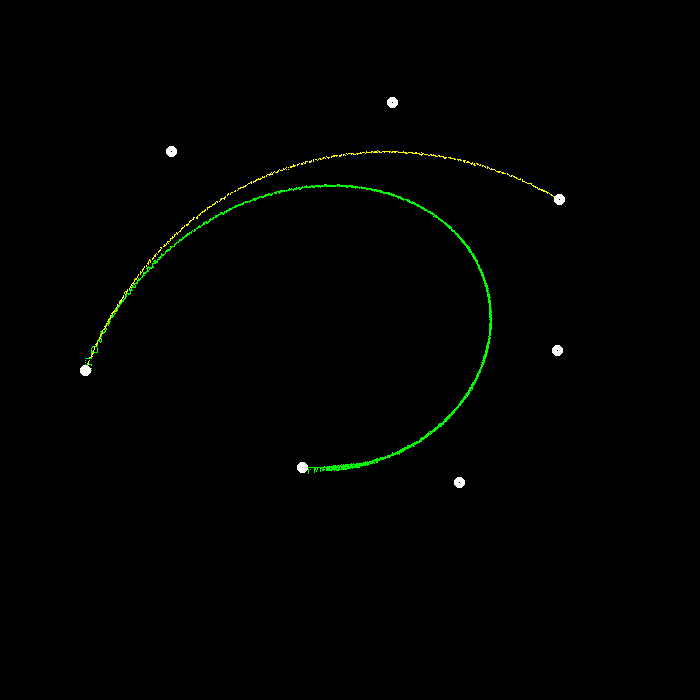
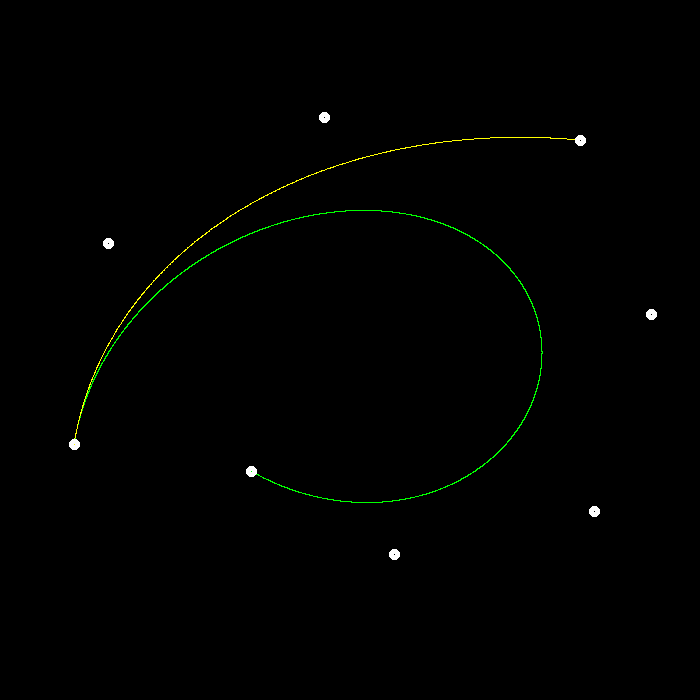
Change to float

diff --git a/Assignment4/code/main.cpp b/Assignment4/code/main.cpp
@@ -2,7 +2,7 @@
 #include <iostream>
 #include <opencv2/opencv.hpp>
 
-std::vector<cv::Point2i> control_points;
+std::vector<cv::Point2f> control_points;
 int n;
 
 void mouse_handler(int event, int x, int y, int flags, void *userdata) 
@@ -15,7 +15,7 @@ void mouse_handler(int event, int x, int y, int flags, void *userdata)
     }     
 }
 
-void naive_bezier(const std::vector<cv::Point2i> &points, cv::Mat &window) 
+void naive_bezier(const std::vector<cv::Point2f> &points, cv::Mat &window) 
 {
     auto &p_0 = points[0];
     auto &p_1 = points[1];
@@ -32,7 +32,7 @@ void naive_bezier(const std::vector<cv::Point2i> &points, cv::Mat &window)
     }
 }
 
-cv::Point2i recursive_bezier(const std::vector<cv::Point2i> &control_points, float t) 
+cv::Point2f recursive_bezier(const std::vector<cv::Point2f> &control_points, float t) 
 {
     // TODO: Implement de Casteljau's algorithm
     if(control_points.size() == 2) {
@@ -41,7 +41,7 @@ cv::Point2i recursive_bezier(const std::vector<cv::Point2i> &control_points, flo
         return (1 - t) * p_0 + t * p_1;
     }
 
-    std::vector<cv::Point2i> tmp;
+    std::vector<cv::Point2f> tmp;
     for(int i = 0; i < control_points.size() - 1; ++ i) {
         auto &p_0 = control_points[i];
         auto &p_1 = control_points[i+1];
@@ -52,7 +52,7 @@ cv::Point2i recursive_bezier(const std::vector<cv::Point2i> &control_points, flo
     
 }
 
-void bezier(const std::vector<cv::Point2i> &control_points, cv::Mat &window) 
+void bezier(const std::vector<cv::Point2f> &control_points, cv::Mat &window) 
 {
 
     for(double t = 0.0; t <= 1.0; t += 0.0001) 

diff --git a/Assignment4/README.md b/Assignment4/README.md
@@ -5,34 +5,35 @@
 
 ### 测试记录
 #### test1
-Left button of the mouse is clicked - position (364, 115)  
-Left button of the mouse is clicked - position (152, 265)  
-Left button of the mouse is clicked - position (503, 446)  
-Left button of the mouse is clicked - position (331, 591)  
+Left button of the mouse is clicked - position (331, 579)  
+Left button of the mouse is clicked - position (485, 424)  
+Left button of the mouse is clicked - position (211, 234)  
+Left button of the mouse is clicked - position (406, 53)   
 ![](./code/images/test1.png)
 
 #### test2
-Left button of the mouse is clicked - position (96, 343)  
-Left button of the mouse is clicked - position (625, 355)  
-Left button of the mouse is clicked - position (300, 459)  
-Left button of the mouse is clicked - position (550, 221)  
+Left button of the mouse is clicked - position (141, 352)  
+Left button of the mouse is clicked - position (428, 406)  
+Left button of the mouse is clicked - position (323, 440)  
+Left button of the mouse is clicked - position (530, 195)  
 ![](./code/images/test2.png)
 
 #### test3
-Left button of the mouse is clicked - position (42, 322)  
-Left button of the mouse is clicked - position (123, 410)  
-Left button of the mouse is clicked - position (234, 297)  
-Left button of the mouse is clicked - position (312, 366)  
-Left button of the mouse is clicked - position (439, 230)  
-Left button of the mouse is clicked - position (639, 331)  
+Left button of the mouse is clicked - position (65, 321)  
+Left button of the mouse is clicked - position (186, 451)  
+Left button of the mouse is clicked - position (263, 254)  
+Left button of the mouse is clicked - position (385, 361)  
+Left button of the mouse is clicked - position (471, 168)  
+Left button of the mouse is clicked - position (675, 360)  
 ![](./code/images/test3.png)
 
 #### test4
-Left button of the mouse is clicked - position (85, 370)  
-Left button of the mouse is clicked - position (171, 151)  
-Left button of the mouse is clicked - position (392, 102)  
-Left button of the mouse is clicked - position (559, 199)  
-Left button of the mouse is clicked - position (557, 350)  
-Left button of the mouse is clicked - position (459, 482)  
-Left button of the mouse is clicked - position (302, 467)  
+Left button of the mouse is clicked - position (74, 444)  
+Left button of the mouse is clicked - position (108, 243)   
+Left button of the mouse is clicked - position (324, 117)  
+Left button of the mouse is clicked - position (580, 140)  
+Left button of the mouse is clicked - position (651, 314)  
+Left button of the mouse is clicked - position (594, 511)  
+Left button of the mouse is clicked - position (394, 554)  
+Left button of the mouse is clicked - position (251, 471)  
 ![](./code/images/test4.png)
